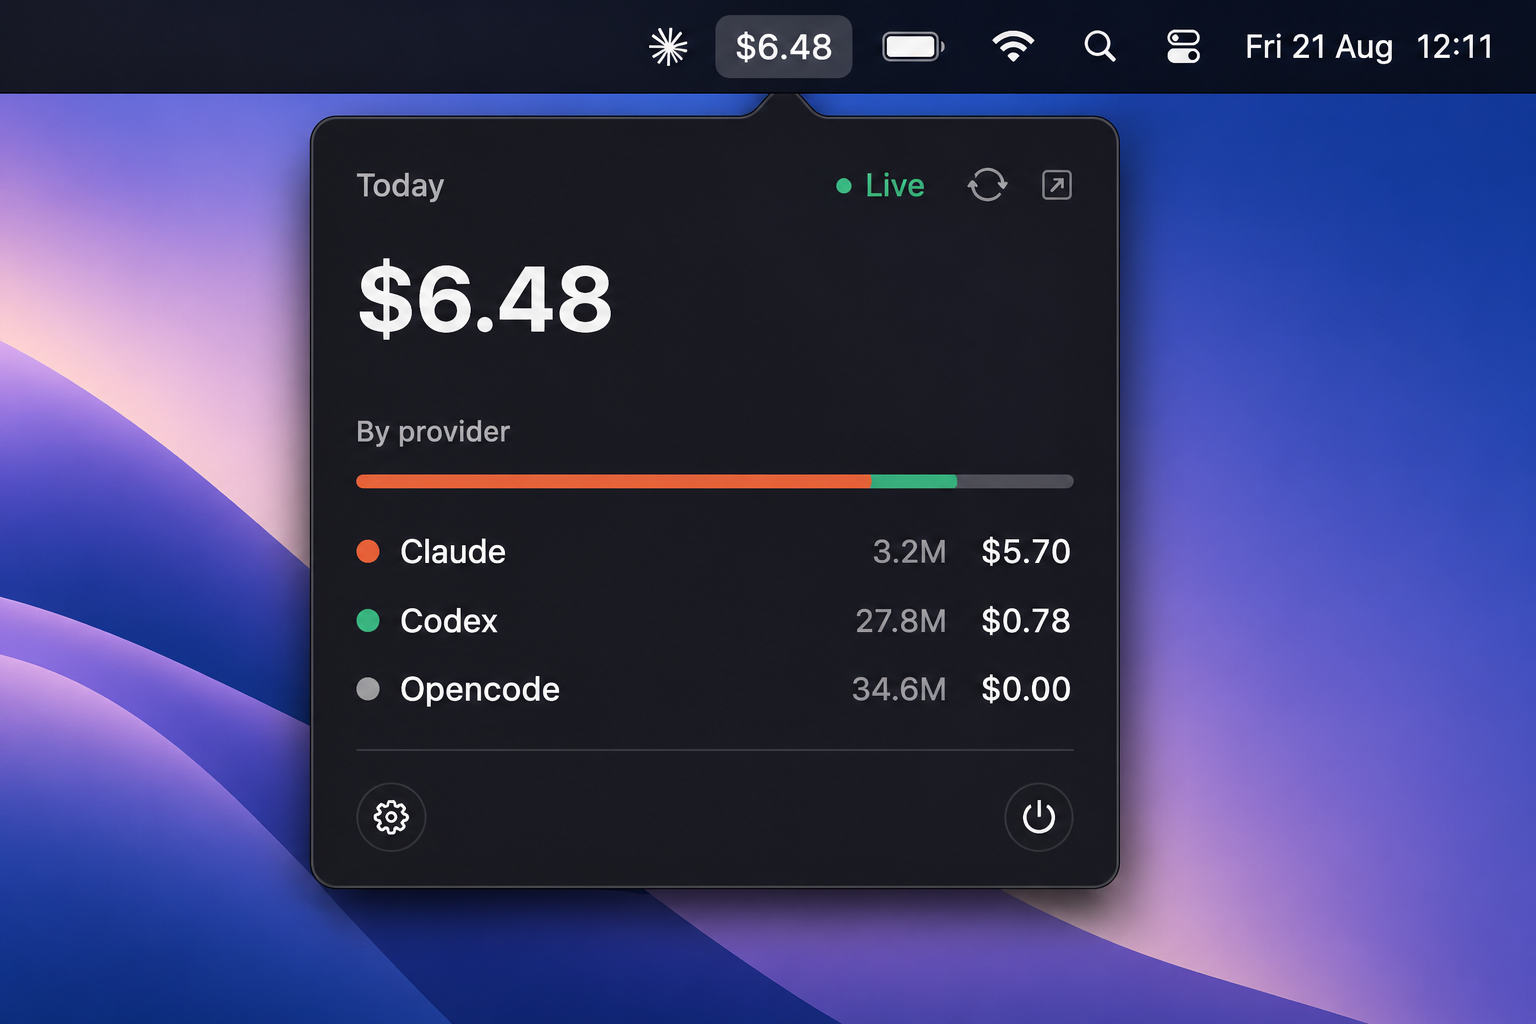
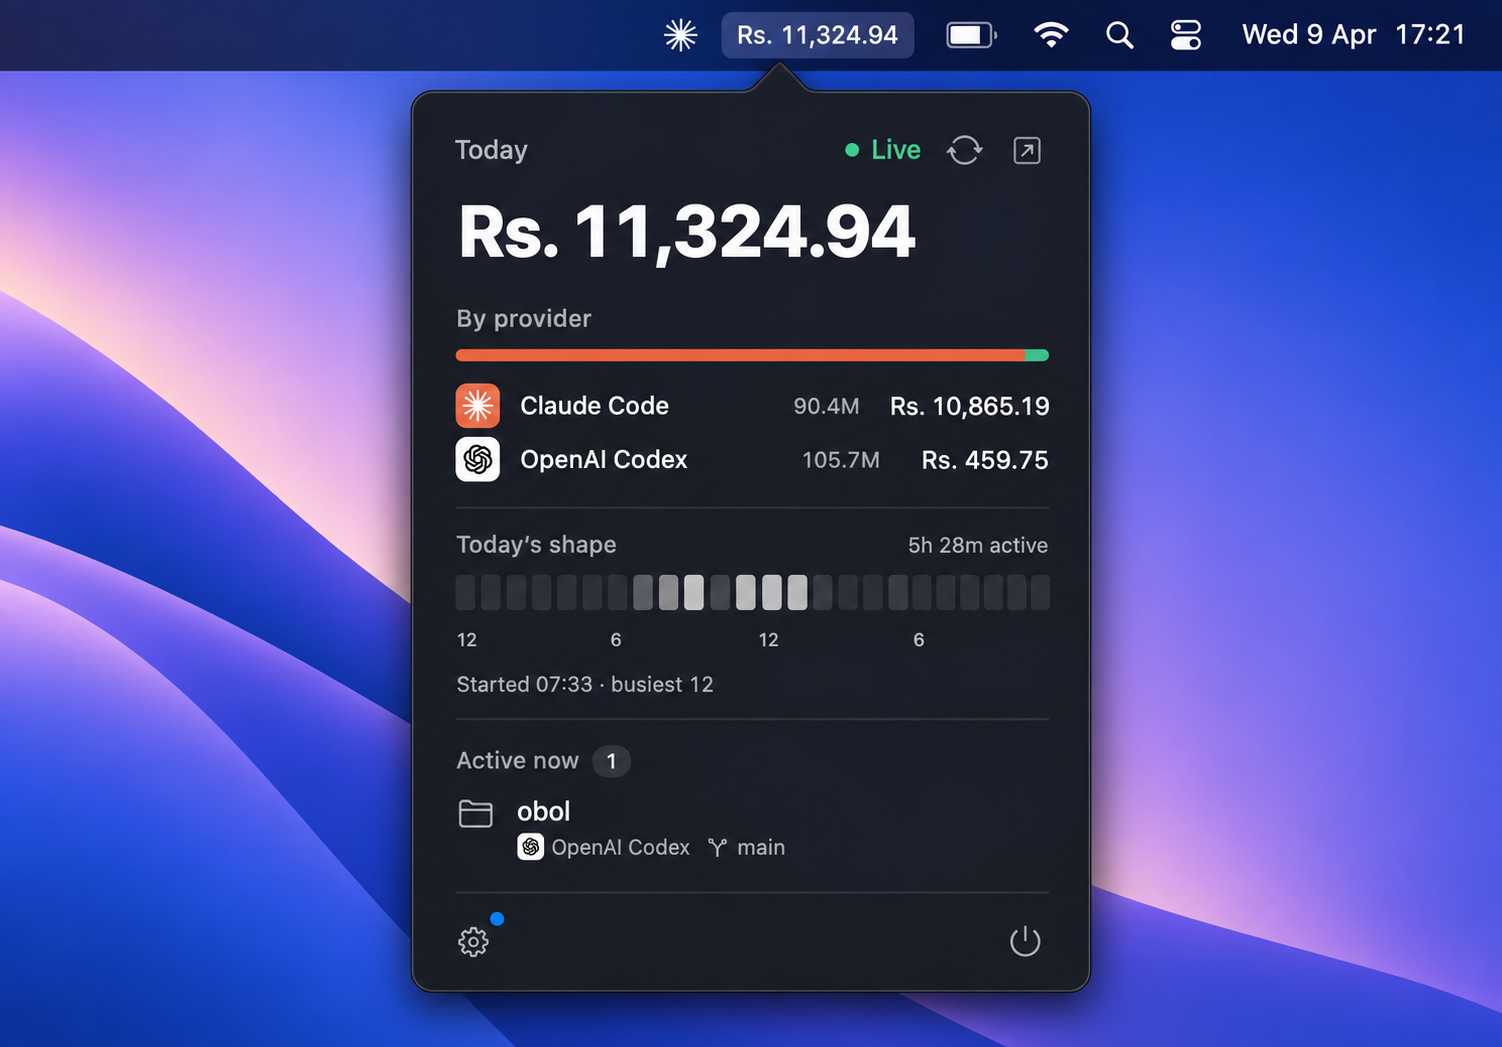
feat: update README for clarity and improve active sessions display in UI

diff --git a/macos/Obol/Sources/Features/Usage/ActiveSessionsSection.swift b/macos/Obol/Sources/Features/Usage/ActiveSessionsSection.swift
@@ -5,7 +5,12 @@ struct ActiveSessionsSection: View {
     @ObservedObject var controller: DaemonController
     @ObservedObject var currency: CurrencyController
 
+    private static let maxVisibleSessions = 4
+
     var body: some View {
+        let visibleSessions = Array(controller.activeSessions.prefix(Self.maxVisibleSessions))
+        let hiddenSessionCount = controller.activeSessions.count - visibleSessions.count
+
         VStack(alignment: .leading, spacing: 10) {
             HStack(spacing: 7) {
                 Text("Active now")
@@ -35,15 +40,18 @@ struct ActiveSessionsSection: View {
                     .font(WidgetStyle.TypeScale.row)
                     .foregroundStyle(.secondary)
             } else {
-                ScrollView(.vertical) {
-                    LazyVStack(alignment: .leading, spacing: 9) {
-                        ForEach(controller.activeSessions) { session in
-                            activeSessionRow(session)
-                        }
+                VStack(alignment: .leading, spacing: 9) {
+                    ForEach(visibleSessions) { session in
+                        activeSessionRow(session)
+                    }
+
+                    if hiddenSessionCount > 0 {
+                        Text("and \(hiddenSessionCount) more active")
+                            .font(WidgetStyle.TypeScale.footnote)
+                            .foregroundStyle(.tertiary)
+                            .accessibilityLabel("and \(hiddenSessionCount) more active sessions")
                     }
                 }
-                .frame(maxHeight: WidgetStyle.activeSessionsMaxHeight)
-                .clipped()
                 .accessibilityLabel("Active sessions")
             }
         }

diff --git a/macos/Obol/Sources/Design/WidgetStyle.swift b/macos/Obol/Sources/Design/WidgetStyle.swift
@@ -7,9 +7,6 @@ enum WidgetStyle {
 
     static let popoverWidth: CGFloat = 340
     static let inset: CGFloat = 18
-    /// Keep a busy day from pushing the shape strip and footer below the
-    /// popover's useful reading area. Short lists still size to their content.
-    static let activeSessionsMaxHeight: CGFloat = 184
 
     /// The panel the popover is drawn in: the card, and the arrow that points
     /// it at the menu bar item. Shared by the shape that draws the chrome and

diff --git a/README.md b/README.md
@@ -2,10 +2,12 @@
 
 # Obol
 
-**Know what your AI coding agents cost — from your menu bar.**
+**See what your AI coding agents cost — right from your menu bar.**
 
-Live spend tracking for Claude Code, Codex CLI, and OpenCode.
-Local-only. No telemetry. No accounts.
+Obol is a local-first macOS app for tracking token usage and estimated spend
+from Claude Code, Codex CLI, and OpenCode.
+
+No account. No API key. No usage data uploads.
 
 [![Download the latest DMG](https://img.shields.io/badge/Download-Obol.dmg-2ea44f?style=for-the-badge&logo=apple&logoColor=white)](https://github.com/aakritsubedi/obol/releases/latest/download/Obol.dmg)
 
@@ -14,94 +16,228 @@ Local-only. No telemetry. No accounts.
 [![CI](https://github.com/aakritsubedi/obol/actions/workflows/ci.yml/badge.svg)](https://github.com/aakritsubedi/obol/actions/workflows/ci.yml)
 [![License: MIT](https://img.shields.io/badge/license-MIT-blue.svg)](LICENSE)
 
-<img src="docs/images/menu-bar.png" width="720" alt="Obol menu bar popover showing today's AI spend, a provider split between Claude, Codex, and Opencode, and a Live indicator">
+<img src="docs/images/menu-bar.png" width="720" alt="Obol menu bar popover showing today's AI spend, a provider split, today's activity shape, and active sessions">
 
 </div>
 
 ## Why Obol
 
-AI coding tools bill by the token, and the spend is invisible until the invoice lands. Obol puts today's number one click away:
+AI coding tools make it easy to lose track of usage across projects and
+providers. Obol keeps the answer close at hand while keeping the underlying
+usage data on your Mac.
 
-- **Menu bar widget** — today's total in your menu bar at all times. Click for a compact popover: provider split with token counts, a live/cached indicator, and settings.
-- **Full dashboard** — a local web dashboard with history charts (daily/weekly/monthly), per-provider and per-model breakdowns, Claude project history, weekly rollups, and CSV/JSON export.
-- **Budgets that speak up** — set a daily budget and Obol shifts its status color as you approach it, with native notifications when thresholds are crossed.
-- **Private by design** — everything runs on your Mac. The daemon reads local agent logs, estimates cost offline via [ccusage](https://github.com/ryoppippi/ccusage), and serves the dashboard on loopback only. No telemetry, no uploads, no accounts.
-- **Self-updating** — Obol checks GitHub Releases quietly, verifies checksums and signatures, and installs updates without touching a terminal.
+- **Menu bar overview** — see today’s total, provider split, token counts, and
+  live or cached status in one click.
+- **Local dashboard** — explore daily, weekly, and monthly history; provider
+  and model breakdowns; activity intensity; and week-to-date leaders.
+- **Work journal** — review agent sessions, prompts, projects, branches, tools,
+  edited files, active minutes, and currently active work.
+- **Budgets and alerts** — set daily and monthly budgets, choose a warning
+  threshold, and receive native notifications when usage crosses it.
+- **Sharing and export** — export the current history view as CSV or JSON, or
+  create a shareable usage image from the dashboard.
+- **Display currencies** — show amounts in a supported currency while keeping
+  stored costs and budgets in USD.
+- **Mac controls** — launch at login and optionally keep the Mac awake while
+  an agent session is active, including with the lid closed when configured.
+- **Quiet updates** — check GitHub Releases in the background and verify the
+  update before installing it.
 
 <div align="center">
 
-<img src="docs/images/dashboard.png" width="860" alt="Obol dashboard showing today's spend, history totals, input and output tokens, and a daily spend-over-time chart with per-provider breakdown">
+<img src="docs/images/dashboard.png" width="860" alt="Obol dashboard showing today's spend, history, activity calendar, and provider breakdown">
 
 </div>
 
-## Download
+## Install
 
-1. Grab [`Obol.dmg`](https://github.com/aakritsubedi/obol/releases/latest/download/Obol.dmg) — that link always fetches the newest release. Prefer browsing? Head to [Releases](https://github.com/aakritsubedi/obol/releases) and download the versioned DMG.
+1. Download [`Obol.dmg`](https://github.com/aakritsubedi/obol/releases/latest/download/Obol.dmg), or choose a version from [Releases](https://github.com/aakritsubedi/obol/releases).
 2. Open the DMG and drag **Obol** to **Applications**.
-3. First launch: right-click the app → **Open** (once). The public build is ad-hoc signed — this is a free open-source project without a 99 USD/year Apple Developer account — so macOS asks for confirmation on the first launch after a download. That prompt is expected; it is not an Obol permission request.
+3. Launch Obol. On the first launch after downloading, right-click the app,
+   choose **Open**, and confirm the macOS prompt.
+
+The public build is ad-hoc signed rather than notarized. The one-time
+right-click → **Open** step is expected for this open-source project; it is not
+an Obol permission request.
 
 ### Requirements
 
 - macOS 13 or later
-- Node.js 20 or later, visible to Finder-launched apps
+- Apple silicon or Intel Mac
 
-Obol checks `/opt/homebrew/bin/node`, `/usr/local/bin/node`, `/opt/local/bin/node`, `/usr/bin/node`, and `~/.volta/bin/node`, then picks the newest interpreter from nvm (`~/.nvm`), mise, and fnm install folders.
+Downloaded releases include a universal Node.js runtime, so end users do not
+need Node.js, npm, or a shell configuration. Node.js 20 or later is required
+only for development and source builds.
 
-Finder launches do not inherit your shell PATH, so if Node works in your terminal but none of those paths exist, link it once:
+## Supported agents
 
-    sudo ln -s "$(which node)" /usr/local/bin/node
+Obol reads local records from the agents below. Missing or unused sources are
+ignored, so installing one agent is enough to get started.
 
-Use a real path and remove an existing conflicting symlink first. When the popover reports that Node is missing or that the daemon exited, the daemon's own output is in `~/.obol/daemon.log`.
+| Agent | Local source | What Obol can show |
+| --- | --- | --- |
+| Claude Code | `~/.claude/projects` | Provider totals, project history, session activity, and estimated session shares |
+| Codex CLI | `~/.codex/sessions` | Provider totals, session activity, prompts, tools, edited files, and active work |
+| OpenCode | `~/.local/share/opencode/opencode.db` | Provider totals, session activity, prompts, tools, edited files, and active work |
 
-## Updating
+Provider totals and history come from [ccusage](https://github.com/ryoppippi/ccusage)
+using its offline report. Project-level cost history is currently Claude-only;
+Codex and OpenCode still contribute to aggregate provider and daily totals.
 
-When a stable GitHub Release is available, Obol checks once after launch, when the popover opens, and every six hours. Automatic checks are quiet: there is no notification, modal, or dock bounce. A pending release adds a small dot to Settings.
+## Accuracy and privacy
 
-The Settings row can download, verify, and install the ZIP release. The updater checks the size, a SHA-256 digest or SHA256SUMS, the bundle identifier, the version, and the internal code signature before stopping the daemon and swapping the app. The replaced app is relaunched automatically. A release without a checksum is refused.
+Obol shows estimates from ccusage’s pricing table, not provider invoices. A
+session’s cost is not a billing record: ccusage reports daily cost by Claude
+project, so Obol apportions that project total across Claude sessions by output
+tokens. Codex and OpenCode session records do not include a comparable
+per-project cost source.
 
-The DMG remains the manual install path. Verify its paired artifacts with:
+Usage processing is local:
 
-    cd dist
-    shasum -c SHA256SUMS
+- The daemon reads agent logs or databases from your home directory.
+- ccusage runs with `--offline` and the daemon listens on `127.0.0.1` only.
+- Configuration and the last good snapshot stay in `~/.obol`.
+- Obol does not upload agent logs, prompts, usage snapshots, or API keys.
+
+The app can still make two kinds of optional network requests: GitHub Release
+checks for the updater and the public Frankfurter API when you select a
+non-USD display currency. Neither request receives your usage data.
+
+### Local state
+
+| File | Purpose |
+| --- | --- |
+| `~/.obol/config.json` | Budgets, refresh settings, display currency, and other preferences |
+| `~/.obol/snapshot.json` | Last successful usage snapshot used while a refresh is unavailable |
+| `~/.obol/runtime.json` | The running daemon’s loopback port and short-lived access token |
+| `~/.obol/daemon.log` | Daemon startup and runtime diagnostics |
 
 ## How it works
 
-    macOS menu-bar app
-          │ loopback HTTP + per-process token
-          ▼
-    Node daemon ── offline ccusage ── local agent logs
-          │
-          └── Vite dashboard
+```text
+  macOS menu-bar app ─────┐
+                           │ loopback HTTP + per-process token
+  local dashboard ────────┤
+                           ▼
+                    Node daemon
+                      ├── ccusage --offline
+                      ├── Claude / Codex / OpenCode adapters
+                      └── ~/.obol snapshot and configuration
+```
 
-One local daemon is the source of truth for both the native widget and the dashboard. It watches supported agent log directories, asks ccusage for offline estimates, stores the last good snapshot in `~/.obol`, and serves the dashboard over a loopback-only HTTP endpoint with a per-process token.
+The daemon is the source of truth for both the native popover and the
+dashboard. It watches supported agent data, refreshes usage on a configurable
+interval, keeps the last good snapshot, and serves the dashboard from the
+same loopback-only process.
 
-Costs are estimates from ccusage's pricing table, not invoices. Obol has no telemetry: the daemon binds to 127.0.0.1, ccusage runs offline, and snapshots/configuration remain under `~/.obol`. The app does not upload agent logs or usage snapshots.
+## Troubleshooting
 
----
+### The dashboard is empty or stale
+
+Open an agent session, click **Refresh** in the popover or dashboard, and check
+that the agent has written data to its local source path in the table above.
+Obol keeps showing the last good snapshot when a refresh fails; the reason is
+shown as a daemon notice in the dashboard.
+
+### The daemon is unavailable
+
+Check `~/.obol/daemon.log`. For a downloaded release, Node is bundled with the
+app. For a development build, install Node.js 20 or later, then build the
+daemon and dashboard before launching the native app:
+
+```sh
+npm ci
+npm run build
+```
+
+### macOS blocks the first launch
+
+Right-click **Obol.app**, choose **Open**, and confirm. This is expected for
+the ad-hoc signed public build. A Developer ID-signed release does not need
+this step.
+
+### A project or session is missing
+
+Obol only counts records with timestamps that fall in the selected local day.
+It also ignores subagent transcripts that replay work already attributed to a
+parent session. Project cost history is available for Claude because Claude’s
+project records can be joined to ccusage’s project report; other agents still
+appear in aggregate usage and the work journal.
 
 ## Build from source
 
-    npm ci
-    npm run build
-    npm run package:dmg
+Source builds require macOS, Node.js 20 or later, npm 10, and Xcode 16 or
+later. Install dependencies and build the JavaScript workspaces first:
 
-The package command writes `dist/Obol-VERSION.dmg`, `dist/Obol-VERSION.zip`, and `dist/SHA256SUMS`. The ZIP is the artifact consumed by the in-app updater; it comes from the same signed staging bundle as the DMG. See macos/README.md for universal builds, version stamping, and signing.
+```sh
+npm ci
+npm run build
+```
 
-To run the pieces during development:
+To build a distributable universal app and installer artifacts:
 
-    npm run dev:daemon
-    npm run dev:dashboard
+```sh
+npm run package:dmg
+```
 
-For a one-shot daemon refresh:
+This writes the following to `dist/`:
 
-    npm run once -w daemon
+- `Obol-VERSION.dmg` — drag-to-Applications installer
+- `Obol-VERSION.zip` — artifact used by the in-app updater
+- `SHA256SUMS` — SHA-256 checksums for the DMG and ZIP
 
-## Releasing
+Packaging vendors a universal Node runtime into the app. It may download the
+pinned runtime on the first package build. The public artifact is ad-hoc
+signed by default; signing and notarization details are in
+[`macos/README.md`](macos/README.md).
 
-Merging to main is enough. The release workflow reads every commit since the previous tag and picks the bump level: a `BREAKING CHANGE` footer or `type!:` subject bumps the major version, any `feat:`/`feature:` subject bumps the minor version, everything else patches. `[major]` or `[minor]` in a subject forces a level. It then commits `chore(release): vX.Y.Z`, tags it, builds the universal DMG, ZIP, and checksums on GitHub Actions, and publishes a GitHub Release with the DMG attached for direct download. Release notes are drafted by GitHub Models (free inference with the workflow's own token) from those commits, and fall back to raw commit subjects if the model call fails. Pushing a `v*` tag manually releases that exact version without a bump, and a manual workflow run with dry_run enabled only uploads build artifacts.
+### Development
 
-The public build stays ad-hoc signed; adding `MACOS_CERTIFICATE`, `MACOS_CERTIFICATE_PASSWORD`, `MACOS_SIGN_IDENTITY`, `AC_API_KEY_ID`, `AC_API_ISSUER`, and `AC_API_KEY` secrets switches the same workflow to Developer ID signing and notarization.
+Start the daemon first so the dashboard can read its runtime token, then start
+Vite in a second terminal:
 
-## Contributing and license
+```sh
+# terminal 1
+npm run dev:daemon
 
-See CONTRIBUTING.md for prerequisites, checks, and commit conventions. See SECURITY.md for the local boundary and updater trust model. Obol packages and credits [ccusage](https://github.com/ryoppippi/ccusage) prominently; its license and upstream behavior remain part of the dependency you install. Obol is available under the MIT License; see LICENSE.
+# terminal 2
+npm run dev:dashboard
+```
+
+Other useful commands:
+
+```sh
+npm run once -w daemon       # one refresh and a JSON summary
+npm run typecheck            # TypeScript checks
+npm test                     # JavaScript tests
+npm run lint                 # Biome checks
+node scripts/check-boundaries.mjs
+npm run check-contract-fixtures
+swift test --package-path macos
+```
+
+For native app builds, open [`macos/Obol.xcodeproj`](macos/Obol.xcodeproj)
+after `npm run build`. More details about universal builds, version stamping,
+packaging, and signing live in [`macos/README.md`](macos/README.md).
+
+An Xcode Debug build uses Node from the host Mac rather than the packaged
+runtime. The app checks common Homebrew, MacPorts, system, Volta, nvm, mise,
+and fnm locations. Finder-launched apps do not inherit your shell’s `PATH`, so
+if a Debug build cannot start the daemon, install Node 20+ in one of those
+locations and inspect `~/.obol/daemon.log`.
+
+## Releases and contributing
+
+Merging to `main` triggers the release workflow. Commit subjects determine the
+semantic-version bump, and GitHub Actions builds the universal DMG, updater
+ZIP, and checksums. See [`docs/updater.md`](docs/updater.md) for the local
+update fixture and trust model.
+
+Pull requests are welcome. Start with [`CONTRIBUTING.md`](CONTRIBUTING.md) for
+the required checks and commit conventions, and use [`SECURITY.md`](SECURITY.md)
+for the local boundary and updater security model.
+
+## License
+
+Obol is available under the [MIT License](LICENSE). It uses and credits
+[ccusage](https://github.com/ryoppippi/ccusage) for offline usage estimation.
